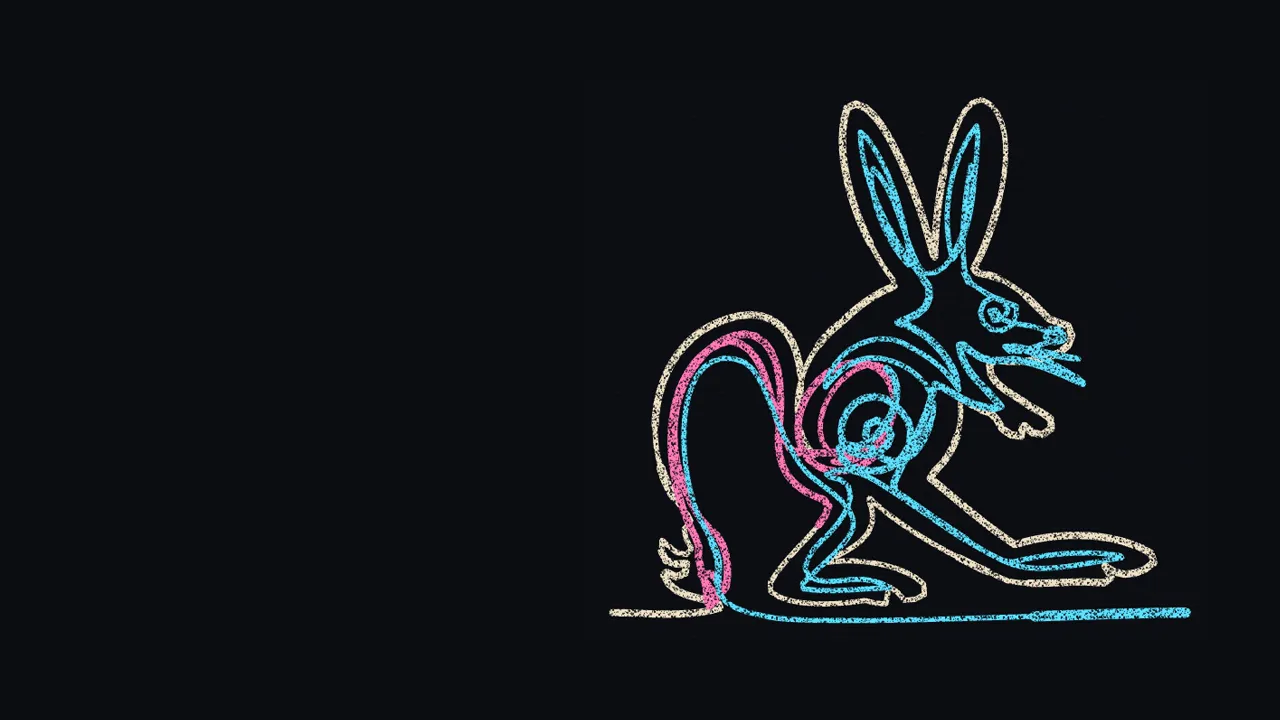
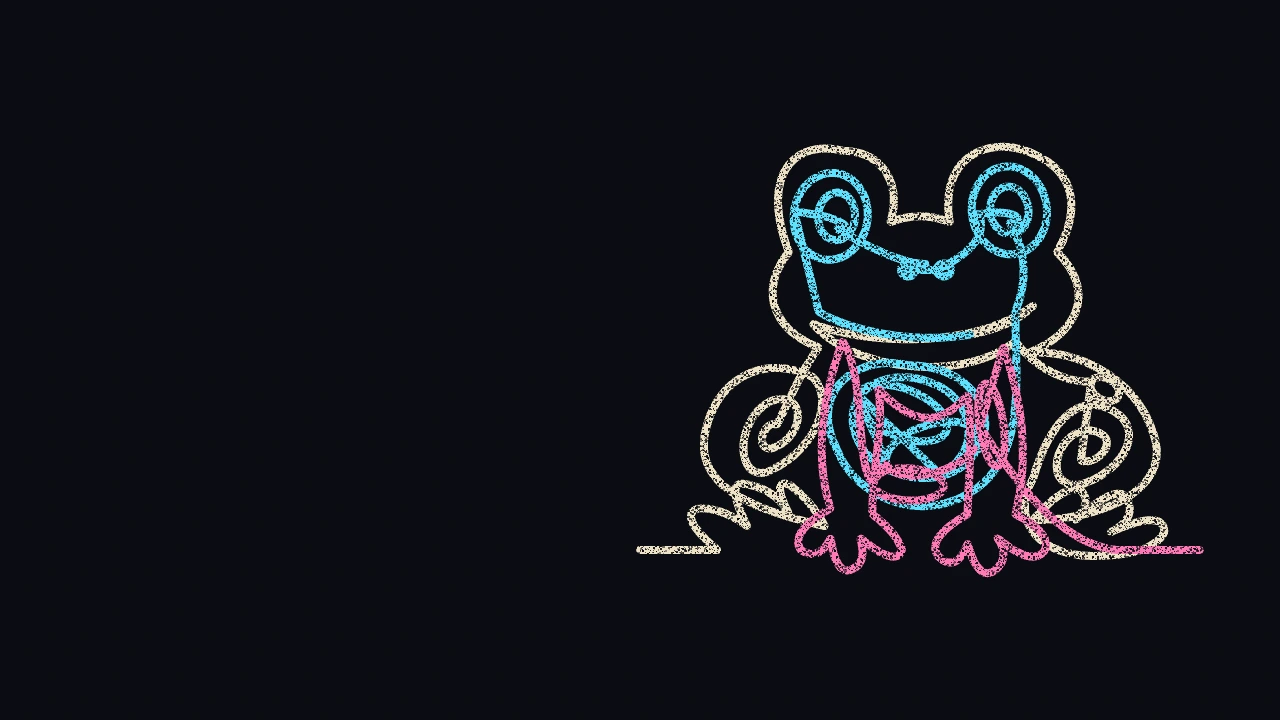
첫 화면 내용을 회사 보고용으로 정리, 라이브캔버스 카드 그림을 개구리로 변경
큰 제목과 소개·연락 글을 업무 결과물 중심으로 바꿨다.
카드 그림은 게임에 들어 있는 한붓그리기(개구리)를 게임과 같은 크레파스 선으로 다시 그린 것이다.

Changed region(s): [[0.4688, 0.1222, 0.9375, 0.8861]]

diff --git a/index.html b/index.html
@@ -4,12 +4,12 @@
 <head>
   <meta charset="utf-8">
   <meta name="viewport" content="width=device-width, initial-scale=1">
-  <title>최민주 · 작고 재밌는 것을 만듭니다</title>
-  <meta name="description" content="게임, 장난감 같은 앱, 생활 도구처럼 작고 재밌는 것을 만드는 최민주의 포트폴리오.">
+  <title>최민주 · 아이디어를 결과물로 완성합니다</title>
+  <meta name="description" content="데스크톱 앱, 웹 게임, 자동화 도구를 기획부터 배포까지 만드는 최민주의 포트폴리오.">
   <meta name="theme-color" content="#faf8f3">
   <meta property="og:type" content="website">
-  <meta property="og:title" content="최민주 · 작고 재밌는 것을 만듭니다">
-  <meta property="og:description" content="게임, 장난감 같은 앱, 생활 도구를 만드는 최민주의 포트폴리오.">
+  <meta property="og:title" content="최민주 · 아이디어를 결과물로 완성합니다">
+  <meta property="og:description" content="데스크톱 앱, 웹 게임, 자동화 도구를 만드는 최민주의 포트폴리오.">
   <meta property="og:url" content="https://cmj1203.github.io/">
   <meta property="og:locale" content="ko_KR">
   <meta name="twitter:card" content="summary">
@@ -83,11 +83,11 @@
       <div class="scene-inner launch">
         <p class="tag mono" data-r style="--i:0"><span id="tag-text">// 최민주의 포트폴리오 · 2026</span></p>
         <h1 class="headline">
-          <span class="w" data-r style="--i:1">작고</span> <span class="w accent" data-r style="--i:2">재밌는</span> <span class="w" data-r style="--i:3">것을</span><br>
-          <span class="w" data-r style="--i:4">만듭니다<span class="caret" aria-hidden="true"></span></span>
+          <span class="w" data-r style="--i:1">아이디어를</span> <span class="w accent" data-r style="--i:2">결과물로</span><br>
+          <span class="w" data-r style="--i:3">완성합니다<span class="caret" aria-hidden="true"></span></span>
         </h1>
-        <p class="sub" data-r style="--i:5">게임 · <strong>장난감 같은 앱</strong> · 생활 도구</p>
-        <p class="lead" data-r style="--i:6">떠오른 아이디어를 <strong>직접 써 볼 수 있는 작은 것</strong>으로 만듭니다. 작게 시작해서 끝까지 완성하는 걸 좋아해요.</p>
+        <p class="sub" data-r style="--i:5">데스크톱 앱 · <strong>웹 게임</strong> · 자동화 도구</p>
+        <p class="lead" data-r style="--i:6">아이디어를 <strong>실제로 동작하는 결과물</strong>로 만듭니다. 기획, 구현, 검증, 배포까지 한 흐름으로 진행합니다.</p>
         <ul class="jump" data-r style="--i:7">
           <li><button type="button" class="chip" data-goto="1">소개</button></li>
           <li><button type="button" class="chip key" data-goto="2">작업 보기</button></li>
@@ -102,17 +102,17 @@
         <div class="col">
           <p class="eyebrow mono" data-r><span class="idx">./02</span> identity</p>
           <h2 class="title" data-r>안녕하세요, <span class="accent">최민주</span>입니다<span class="caret" aria-hidden="true"></span></h2>
-          <p class="role mono" data-r>maker · games · tiny apps · tools</p>
-          <p class="lead" data-r>게임, 장난감 같은 앱, 생활에 쓰는 작은 도구를 만들어요. <strong>크지 않아도 직접 써 볼 수 있는 것</strong>을 만들고, 만든 건 누구나 열어 볼 수 있게 올려 둡니다.</p>
+          <p class="role mono" data-r>developer · desktop apps · web · tools</p>
+          <p class="lead" data-r>데스크톱 앱, 웹 게임, 자동화 도구를 만듭니다. <strong>작은 범위로 시작해 동작하는 결과물까지 완성</strong>하고, 결과물은 누구나 확인할 수 있게 공개합니다.</p>
           <div class="cells">
-            <div class="cell" data-r><span class="k mono">makes</span><span class="v">게임 · 앱 · 생활 도구</span></div>
-            <div class="cell" data-r><span class="k mono">how</span><span class="v">작게 시작해서 끝까지</span></div>
+            <div class="cell" data-r><span class="k mono">makes</span><span class="v">데스크톱 앱 · 웹 · 도구</span></div>
+            <div class="cell" data-r><span class="k mono">how</span><span class="v">기획 → 구현 → 검증 → 배포</span></div>
             <div class="cell" data-r><span class="k mono">based in</span><span class="v">대한민국</span></div>
             <div class="cell" data-r><span class="k mono">status</span><span class="v on">새 작업 준비 중</span></div>
           </div>
         </div>
         <div class="orbit-wrap" data-r>
-          <div class="orbit" role="img" aria-label="만드는 것들: 게임, 장난감 앱, 도구, 봇, 브라우저 확장, 바탕화면 펫, 웹, 메뉴바 앱">
+          <div class="orbit" role="img" aria-label="만드는 것들: 게임, 앱, 도구, 봇, 브라우저 확장, 바탕화면 펫, 웹, 메뉴바 앱">
             <span class="ring ring-a"></span>
             <span class="ring ring-b"></span>
             <span class="ring ring-c"></span>
@@ -126,7 +126,7 @@
               <svg viewBox="0 0 24 24" width="26" height="26" fill="none" stroke="currentColor" stroke-width="1.8" stroke-linecap="round" stroke-linejoin="round" aria-hidden="true"><path d="M12 3v4M12 17v4M3 12h4M17 12h4M6.3 6.3l2.5 2.5M15.2 15.2l2.5 2.5M17.7 6.3l-2.5 2.5M8.8 15.2l-2.5 2.5" /></svg>
             </span>
             <span class="pos" style="--a:-68deg;--r:1"><span class="o-chip mono">game</span></span>
-            <span class="pos" style="--a:-20deg;--r:.78"><span class="o-chip mono">toy app</span></span>
+            <span class="pos" style="--a:-20deg;--r:.78"><span class="o-chip mono">app</span></span>
             <span class="pos" style="--a:22deg;--r:1.02"><span class="o-chip mono">tool</span></span>
             <span class="pos" style="--a:66deg;--r:.8"><span class="o-chip mono">bot</span></span>
             <span class="pos" style="--a:112deg;--r:1"><span class="o-chip mono">extension</span></span>
@@ -153,7 +153,7 @@
             </div>
           </article>
           <article class="slot" data-r>
-            <div class="thumb t2" aria-hidden="true"><code>&lt;LiveCanvas /&gt;</code><code>status: live</code><code>typescript · canvas</code><img class="shot" src="projects/assets/rhythm-game/card.webp" alt="" width="1280" height="720" loading="lazy"></div>
+            <div class="thumb t2" aria-hidden="true"><code>&lt;LiveCanvas /&gt;</code><code>status: live</code><code>typescript · canvas</code><img class="shot" src="projects/assets/rhythm-game/card.webp?v=2" alt="" width="1280" height="720" loading="lazy"></div>
             <div class="body">
               <h3><a class="more" href="projects/rhythm-game.html">라이브캔버스</a></h3>
               <p>키 하나로 박자를 맞추면 크레파스 한붓그리기가 완성되는 웹 리듬게임입니다. 설치 없이 브라우저에서 바로 실행됩니다.</p>
@@ -177,7 +177,7 @@
         <div class="col">
           <p class="eyebrow mono" data-r><span class="idx">./04</span> transmit</p>
           <h2 class="title" data-r>연락은 <span class="accent">여기로</span></h2>
-          <p class="lead" data-r>같이 만들고 싶은 게 있거나, 그냥 인사만 해도 좋아요.</p>
+          <p class="lead" data-r>작업에 대한 문의나 의견은 아래 연락처로 보내 주세요.</p>
           <div class="chans">
             <a class="chan" data-r href="mailto:cmj120333@gmail.com">
               <span class="chan-top"><span class="k mono">email</span>

diff --git a/projects/tamagotchi.html b/projects/tamagotchi.html
@@ -176,7 +176,7 @@
       <div>
         <p class="eyebrow mono"><span class="idx">./info</span> about</p>
         <h2 class="title">개발 <span class="accent">개요</span></h2>
-        <p class="lead">캐릭터 도트 그림부터 바탕화면에 고정되는 창까지 약 2주 동안 개발했습니다. 외부 배포(다운로드 제공)는 아직 하지 않았습니다.</p>
+        <p class="lead">캐릭터 도트 그림부터 바탕화면에 고정되는 창까지 약 2주 동안 개발했습니다. 자동 검사 705개와 macOS 설치본 실행 확인을 거쳤고, 외부 배포(다운로드 제공)는 아직 하지 않았습니다.</p>
       </div>
       <dl>
         <div class="cell"><dt class="k mono">status</dt><dd class="v">개발 완료 · 외부 배포 전</dd></div>

diff --git a/DESIGN.md b/DESIGN.md
@@ -108,7 +108,8 @@
 - 첫 화면 글은 첫 화면 첫 등장과 같은 `rise`(40px, 760ms, 70ms 차이)로 나타난다. 나머지는 정지.
 - 그림은 모두 그 프로젝트의 실제 그림이나 실제 화면 캡처만 쓴다. 다마고치 장면은 앱의 배경·도트 그림을 겹쳐 다시 구성한 것이다.
 - 720px 이하: 첫 화면은 글 → 창 순서로 한 단, 기능 카드는 한 단, 정리 칸은 한 단.
-- 문구(D-19, 2026-10-05 회사 보고용으로 고침): 큰 제목은 프로젝트 이름, 바로 아래 문장은 무엇인지 한 문장으로 적는다. 문장은 "~입니다"로 끝내고 기능과 수치 같은 사실만 적는다. 기능 카드와 첫 화면 작업 카드의 설명은 컴퓨터 폭에서 두 줄(카드끼리 아래 줄 높이를 맞춘다). 정리 칸은 status → period → 환경 → built with → contents → 검사·판정 순서. 수치는 저장소에서 확인한 값만 쓴다.
+- 첫 화면 라이브캔버스 카드 그림(`projects/assets/rhythm-game/card.webp`)은 화면 캡처가 아니라, 게임에 들어 있는 한붓그리기(`frog.svg`)를 게임과 같은 색(크림 `#efe2c6` → 하늘 `#5ee1ff` → 분홍 `#ff7ab8`)과 종이 결로 다시 그린 것이다. 사용자 말(2026-10-05) "라이브캔버스 이미지 좀 귀여운걸로 바꿔", 후보 6장 중 개구리를 골랐다. 그림을 바꿀 때는 주소 뒤 `?v=`를 올린다.
+- 문구(D-19, 2026-10-05 회사 보고용으로 고침): 큰 제목은 프로젝트 이름, 바로 아래 문장은 무엇인지 한 문장으로 적는다. 문장은 "~입니다"로 끝내고 기능과 수치 같은 사실만 적는다. 기능 카드와 첫 화면 작업 카드의 설명은 컴퓨터 폭에서 두 줄(카드끼리 아래 줄 높이를 맞춘다). 정리 칸은 status → period → 환경 → built with → contents → 검사·판정 순서. 수치는 저장소에서 확인한 값만 쓴다. 같은 날 사용자 말 "내용도 좀 바꿔 회사용이니까"에 따라 첫 화면·소개·연락 내용도 바꿨다: 큰 제목 "아이디어를 결과물로 완성합니다", 만드는 것은 "데스크톱 앱 · 웹 게임 · 자동화 도구", 일하는 방식은 "기획 → 구현 → 검증 → 배포". 취미 느낌의 말("작고 재밌는", "장난감 같은 앱", "그냥 인사만 해도")은 쓰지 않는다.
 
 ## 6. Motion
 
@@ -136,6 +137,6 @@
 - 모든 장면은 평범한 HTML이고, 스크립트가 없어도 전부 보인다.
 - 건너뛰기 링크, 키보드 이동(화살표, PageUp/Down, Home/End), `focus-visible` 외곽선.
 - 꾸밈 요소(캔버스, 격자, 터미널)는 `aria-hidden`.
-- 받아들인 빚: 글꼴을 외부(Google Fonts, jsDelivr)에서 불러온다. 작업 칸 3개 중 2개는 내용 없는 빈 틀이고, 다마고치 칸은 그림 없이 글만 있다. 소개 문구는 초안이라 사용자가 고쳐야 한다.
+- 받아들인 빚: 글꼴을 외부(Google Fonts, jsDelivr)에서 불러온다. 작업 칸 3개 중 1개(03)는 내용 없는 빈 틀이다. 소개 문구는 2026-10-05에 회사 보고용으로 고쳤다(D-19).
 - 글꼴 스타일시트는 화면 그리기를 막지 않게 불러온다(`media="print"` 뒤 `onload`로 전환, 스크립트 없으면 `noscript`). 글꼴이 오기 전에는 시스템 글꼴로 먼저 보인다(D-12).
 - 측정(2026-10-02, 실제 크롬 + Lighthouse 12.8, 로컬 서버): 데스크톱 성능·접근성·권장사항·검색 100/100/100/100. 휴대폰 접근성·권장사항·검색 100, 성능은 85~98로 흔들린다. 원인: 첫 화면 글이 차례로 나타나서, 측정기가 가장 큰 글로 본문 문단(0.4초 늦게 나타남)을 고르는 회차에는 느린 망 추정치가 4.2초로 잡힌다. 등장 연출을 지우거나 투명도 0.01로 속이는 방법은 쓰지 않는다. 배포 주소에서 다시 잰다.
